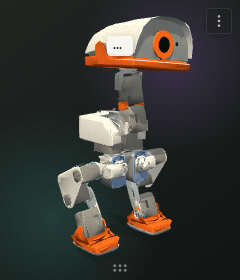
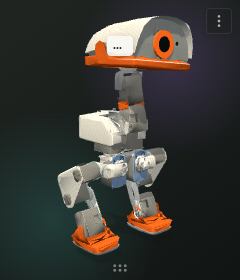
Show full Microduck mascot in README

diff --git a/README.md b/README.md
@@ -1,5 +1,5 @@
 <p align="center">
-  <img src="resources/icon.png" width="112" alt="Microduck Habitat icon">
+  <img src="docs/images/mascot.png" width="160" alt="Microduck Habitat mascot">
 </p>
 
 <h1 align="center">Microduck Habitat</h1>
